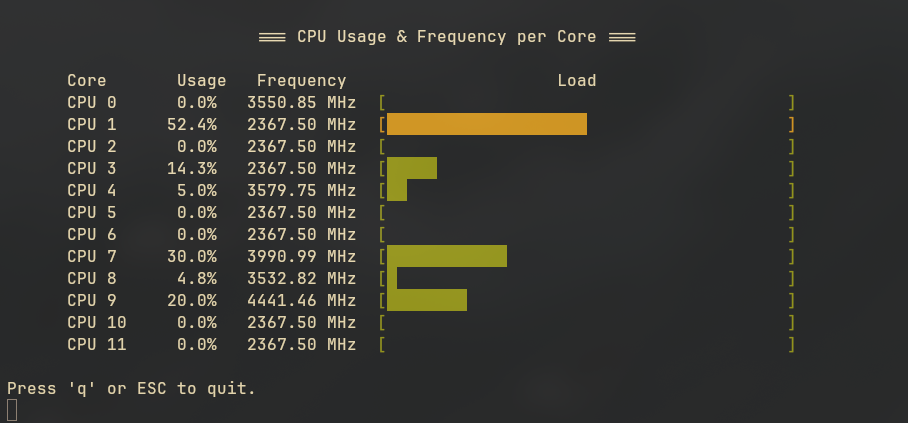
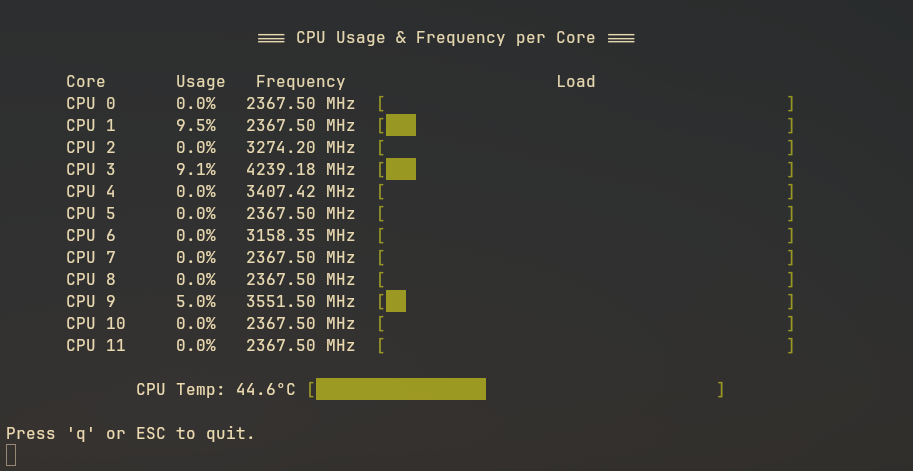
Added CPU temperature

diff --git a/main.c b/main.c
@@ -21,7 +21,7 @@
 #include <signal.h>
 #include <errno.h>
 
-#define VERSION "1.0.0"
+#define VERSION "1.0.1"
 #define MAX_CPUS 256 // Maximum number of CPU cores supported
 #define BAR_WIDTH 40 // Width of the usage bar
 #define COLOR_RESET "\033[0m"
@@ -298,6 +298,83 @@ void print_core_usage_bars()
     }
 }
 
+// Helper function: Prints the CPU temperature
+void print_cpu_temperature()
+{
+    const sensors_chip_name *chip;
+    int chip_nr = 0;
+    int found = 0;
+    double temp_value = 0.0;
+    char label_buf[128] = "";
+    // Iterate over all chips
+    while ((chip = sensors_get_detected_chips(NULL, &chip_nr)) != NULL)
+    {
+        const sensors_feature *feature;
+        int feat_nr = 0;
+        // Iterate over all features of the chip
+        while ((feature = sensors_get_features(chip, &feat_nr)) != NULL)
+        {
+            if (feature->type == SENSORS_FEATURE_TEMP)
+            {
+                const sensors_subfeature *subf = sensors_get_subfeature(chip, feature, SENSORS_SUBFEATURE_TEMP_INPUT);
+                if (subf)
+                {
+                    double value = 0.0;
+                    if (sensors_get_value(chip, subf->number, &value) == 0)
+                    {
+                        // Get label
+                        const char *label = sensors_get_label(chip, feature);
+                        if (label)
+                        {
+                            snprintf(label_buf, sizeof(label_buf), "%s", label);
+                        }
+                        else
+                        {
+                            snprintf(label_buf, sizeof(label_buf), "Temp");
+                        }
+                        temp_value = value;
+                        found = 1;
+                        break;
+                    }
+                }
+            }
+        }
+        if (found)
+            break;
+    }
+    if (found)
+    {
+        // Build temperature line exactly like a core line
+        struct winsize w;
+        if (ioctl(STDOUT_FILENO, TIOCGWINSZ, &w) == -1)
+            w.ws_col = TERM_WIDTH_FALLBACK;
+        int width = w.ws_col > 0 ? w.ws_col : TERM_WIDTH_FALLBACK;
+        // Dummy-Label and dummy frequency for harmonic line
+        char line[256];
+        snprintf(line, sizeof(line), "CPU Temp: %3.1f°C ", temp_value);
+        int len = strlen(line) + BAR_WIDTH + strlen(COLOR_RESET) + 2;
+        int pad = (width - len) / 2;
+        if (pad < 0)
+            pad = 0;
+        if (pad > 0)
+            printf("\n%*s%s", pad, "", line);
+        else
+            printf("\n%s", line);
+        // Normalize temperature to 0-100% (when >100°C, the bar is full)
+        float percent = temp_value;
+        if (percent < 0)
+            percent = 0;
+        if (percent > 100)
+            percent = 100;
+        print_bar(percent);
+        printf("\n");
+    }
+    else
+    {
+        print_centered("CPU temperature: not available\n");
+    }
+}
+
 // Set terminal to non-canonical mode for non-blocking input
 // If enable is 1, set non-blocking mode; if 0, restore previous settings
 void set_nonblocking_terminal(int enable)
@@ -392,6 +469,8 @@ int main()
         }
         // Print CPU usage and frequency for all cores
         print_core_usage_bars();
+        // Print CPU temperature
+        print_cpu_temperature();
         // Print quit message centered
         if (print_centered("\nPress 'q' or ESC to quit.\n") == -1)
         {

diff --git a/README.md b/README.md
@@ -28,7 +28,7 @@ This will build the binary: "coreusage"
 sudo make install
 ```
 
-## Uninstall 
+## Uninstall
 
 ```bash
 sudo make uninstall
